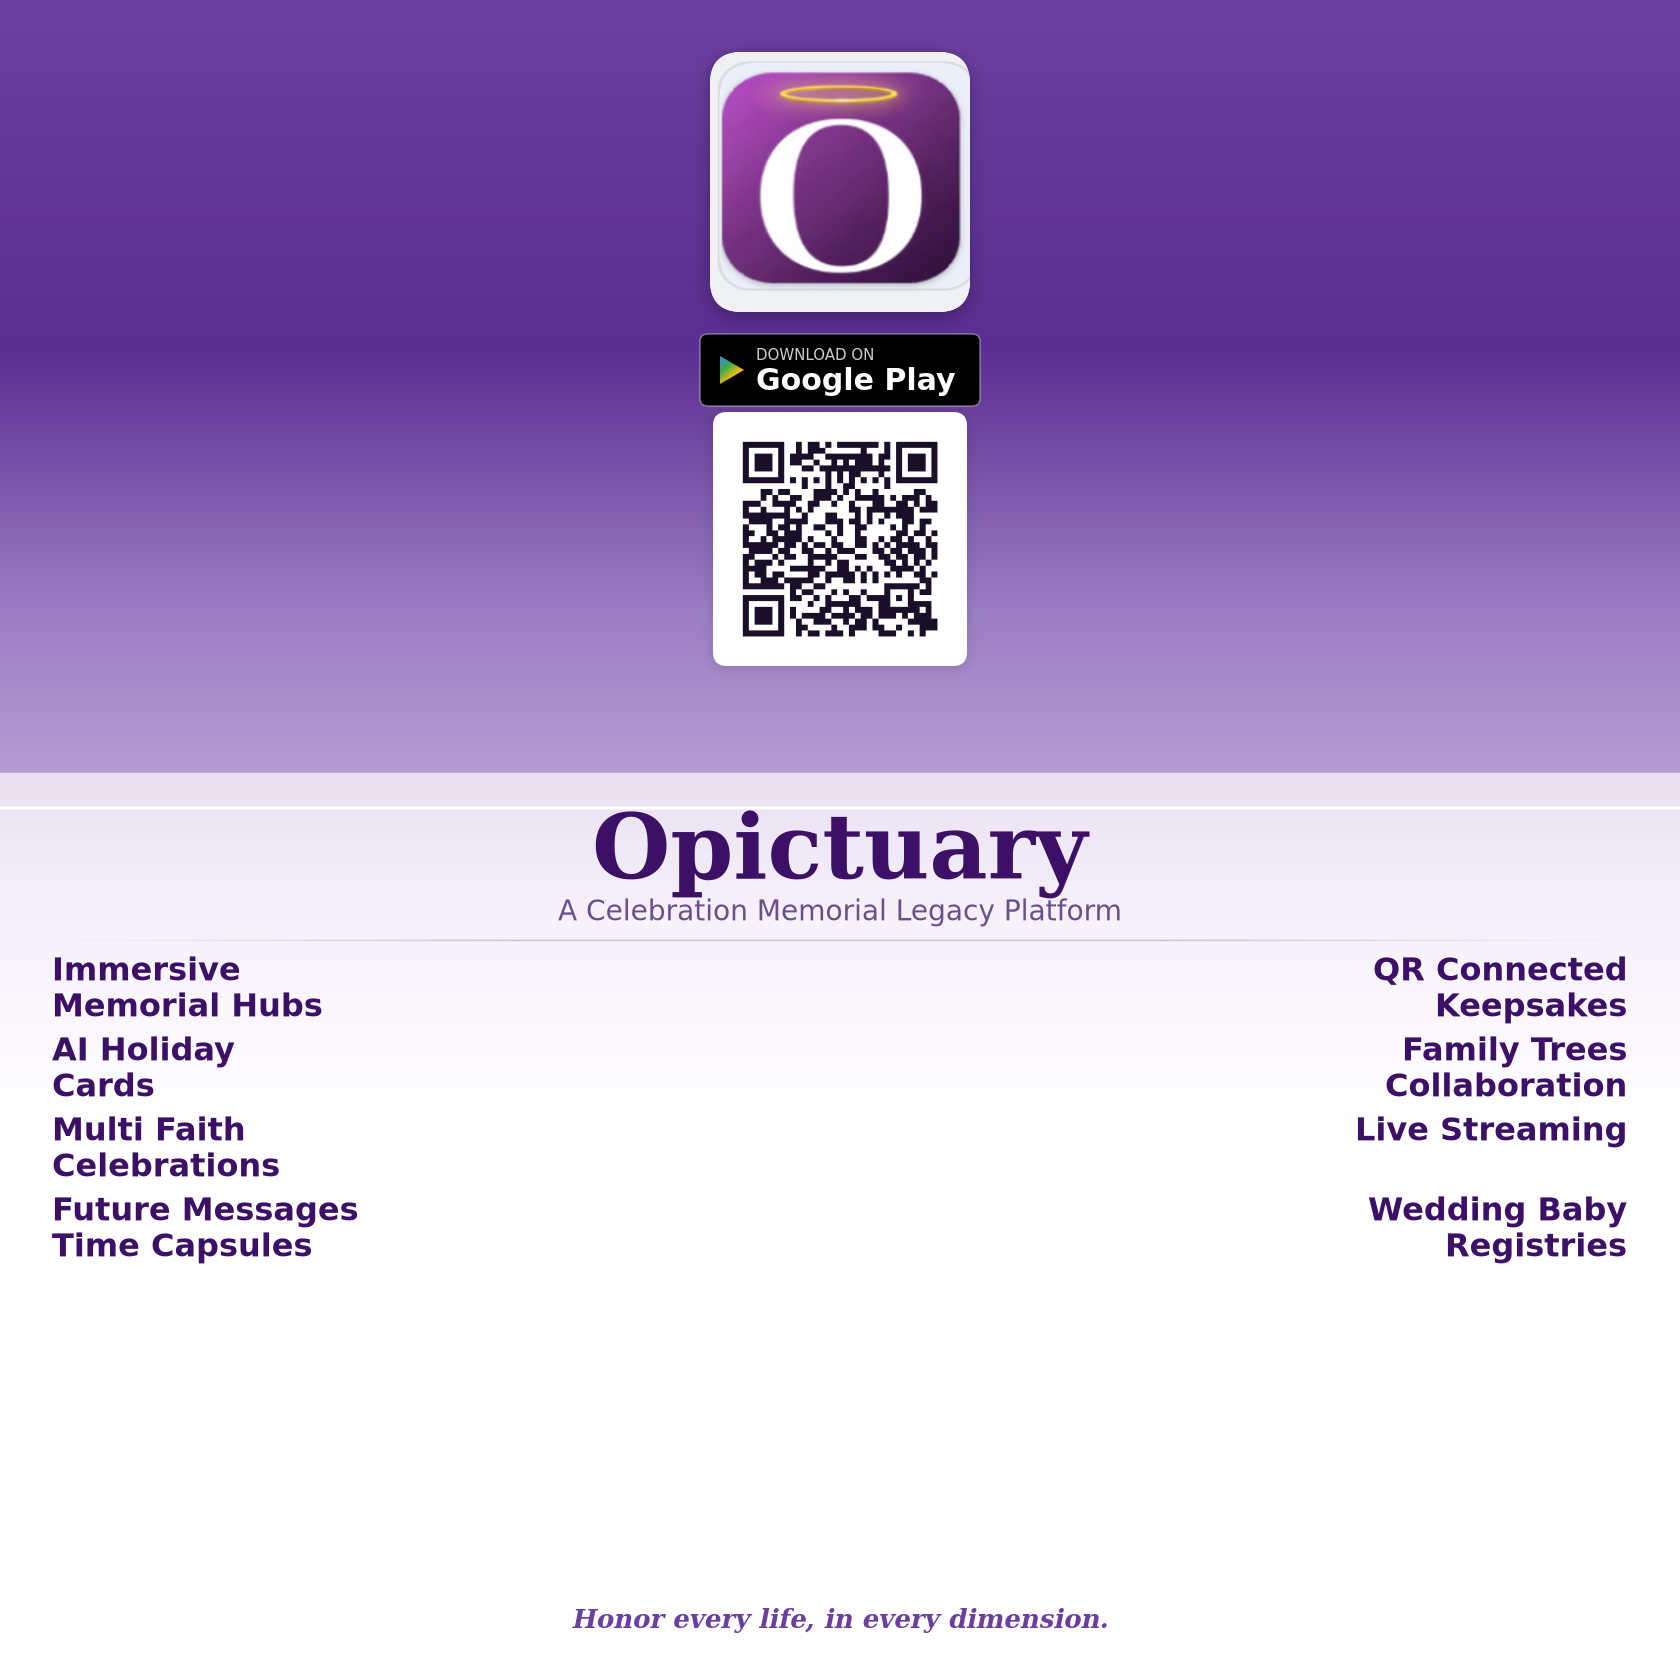
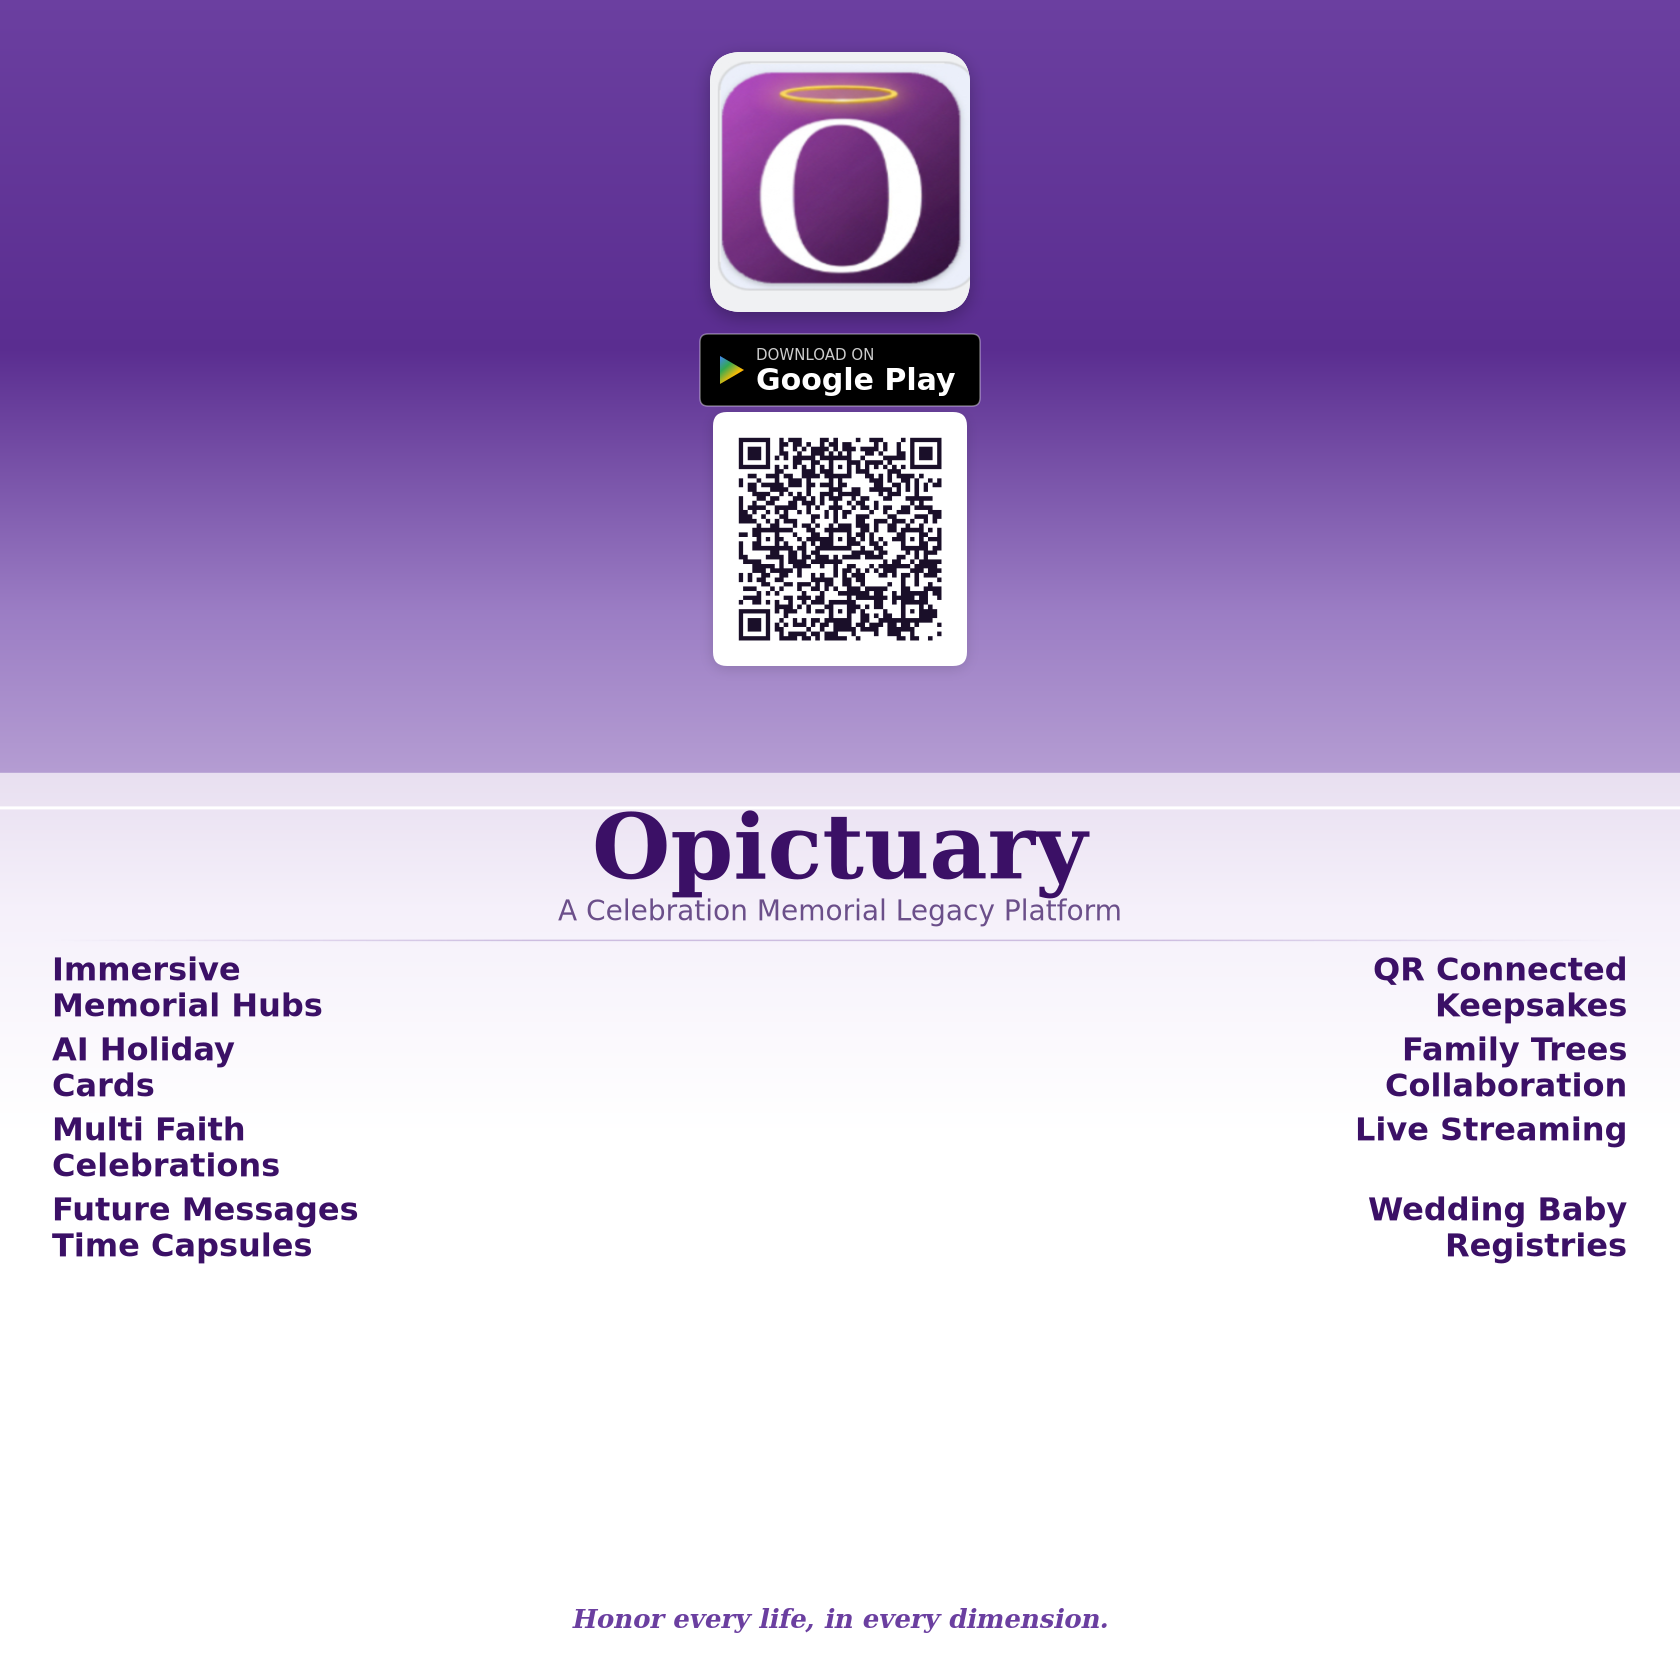
Update app sticker and website with correct links and image
Update QR code on sticker to Google Play Store and add og:image meta tag to AIHolidayCards page.

Replit-Commit-Author: Agent
Replit-Commit-Session-Id: 05a82474-a50c-443d-bb5e-5c4e27e71629
Replit-Commit-Checkpoint-Type: intermediate_checkpoint
Replit-Commit-Event-Id: 556a3e15-7882-4e21-a142-d36e6f5d0500
Replit-Commit-Screenshot-Url: https://storage.googleapis.com/screenshot-production-us-central1/0619f857-3b31-48e3-9f83-e1495112055c/05a82474-a50c-443d-bb5e-5c4e27e71629/2xQlEOh

Changed region(s): [[0.4333, 0.2476, 0.5571, 0.4024]]

diff --git a/client/src/pages/AIHolidayCards.tsx b/client/src/pages/AIHolidayCards.tsx
@@ -184,6 +184,8 @@ export default function AIHolidayCards() {
     setOgTag("og:description", descContent);
     setOgTag("og:type", "website");
     setOgTag("og:url", window.location.href);
+    setOgTag("og:image", `${window.location.origin}/icon-512.png`);
+    setOgTag("og:site_name", "Opictuary");
   }, []);
   const [selectedCategory, setSelectedCategory] = useState<HolidayCategory | null>(null);
   const [customPrompt, setCustomPrompt] = useState("");

diff --git a/generate-sticker.js b/generate-sticker.js
@@ -118,7 +118,7 @@ async function generateSticker() {
   const QR_SIZE = 230;
   const qrY = gpBadgeY + gpBadgeH + 18;
   try {
-    const qrDataUrl = await QRCode.toDataURL('https://opictuary.replit.app', {
+    const qrDataUrl = await QRCode.toDataURL('https://play.google.com/store/apps/details?id=com.opictuary.app', {
       width: 800,
       margin: 3,
       color: { dark: '#1a0f29', light: '#FFFFFF' },
